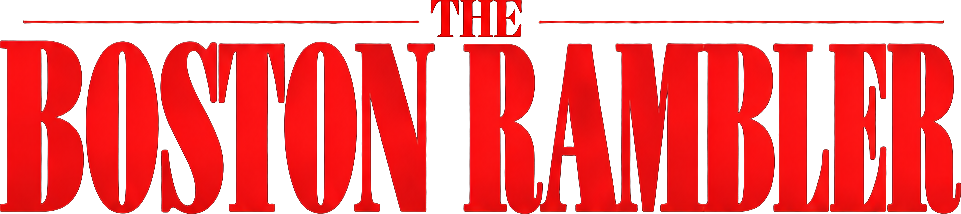
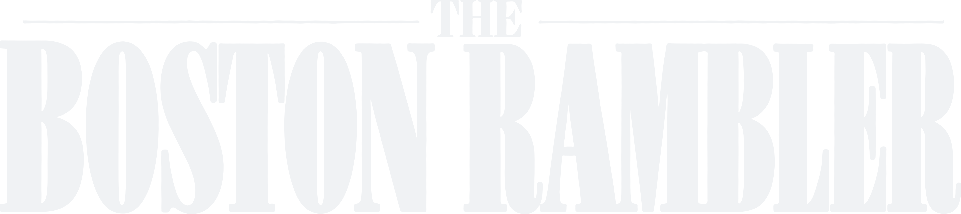
White Rambler masthead
Claude-Session: https://claude.ai/code/session_01TAjcF8gTXyjSYF2ZwmUmLo

diff --git a/index.html b/index.html
@@ -1074,7 +1074,7 @@ h2.room{text-shadow:0 2px 0 #000,0 0 30px rgba(0,0,0,.7)!important;filter:satura
 <div class="wrap">
   <header class="mast">
     <div>
-      <h1 class="logo lgimg"><img src="img/rambler-masthead.png" alt="The The Boston Rambler" width="1000" height="240"></h1>
+      <h1 class="logo lgimg"><img src="img/rambler-masthead.png?v=2" alt="The The Boston Rambler" width="1000" height="240"></h1>
       
       
     </div>
